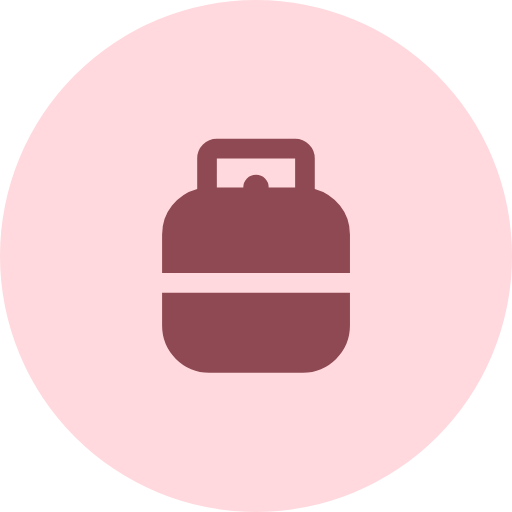
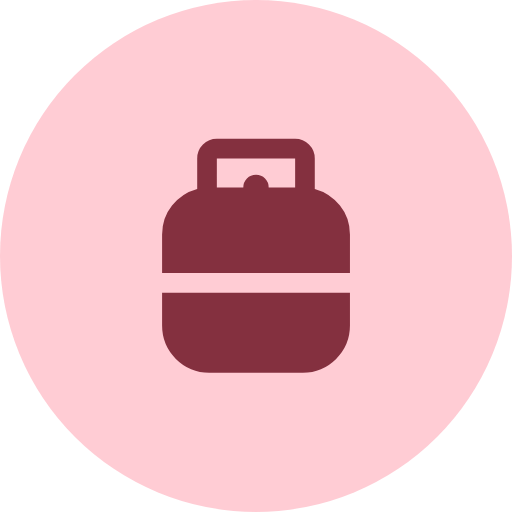
Íconos con los colores nuevos del estándar (rosa #FFCCD4, vino #84303F)
Claude-Session: https://claude.ai/code/session_01RxuB9vs623EuzMLeYyngVi

Changed region(s): [[0.3125, 0.25, 0.6875, 0.5312], [0.3125, 0.5625, 0.6875, 0.75]]

diff --git a/sw.js b/sw.js
@@ -1,6 +1,6 @@
 // Service worker: deja la app abrir sin internet.
 // Si cambias los archivos de la lista, sube el número de versión (v1 -> v2).
-const VERSION = 'cilindros-v22';
+const VERSION = 'cilindros-v23';
 const ARCHIVOS = ['./', './index.html', './config.js', './manifest.webmanifest', './logo.jpg', './logo-crc.png', './icon-192.png', './icon-512.png', './icon-maskable-512.png', './qrcode.js', './reporte.js', './firma.js', './firmar.html'];
 
 self.addEventListener('install', e => {
